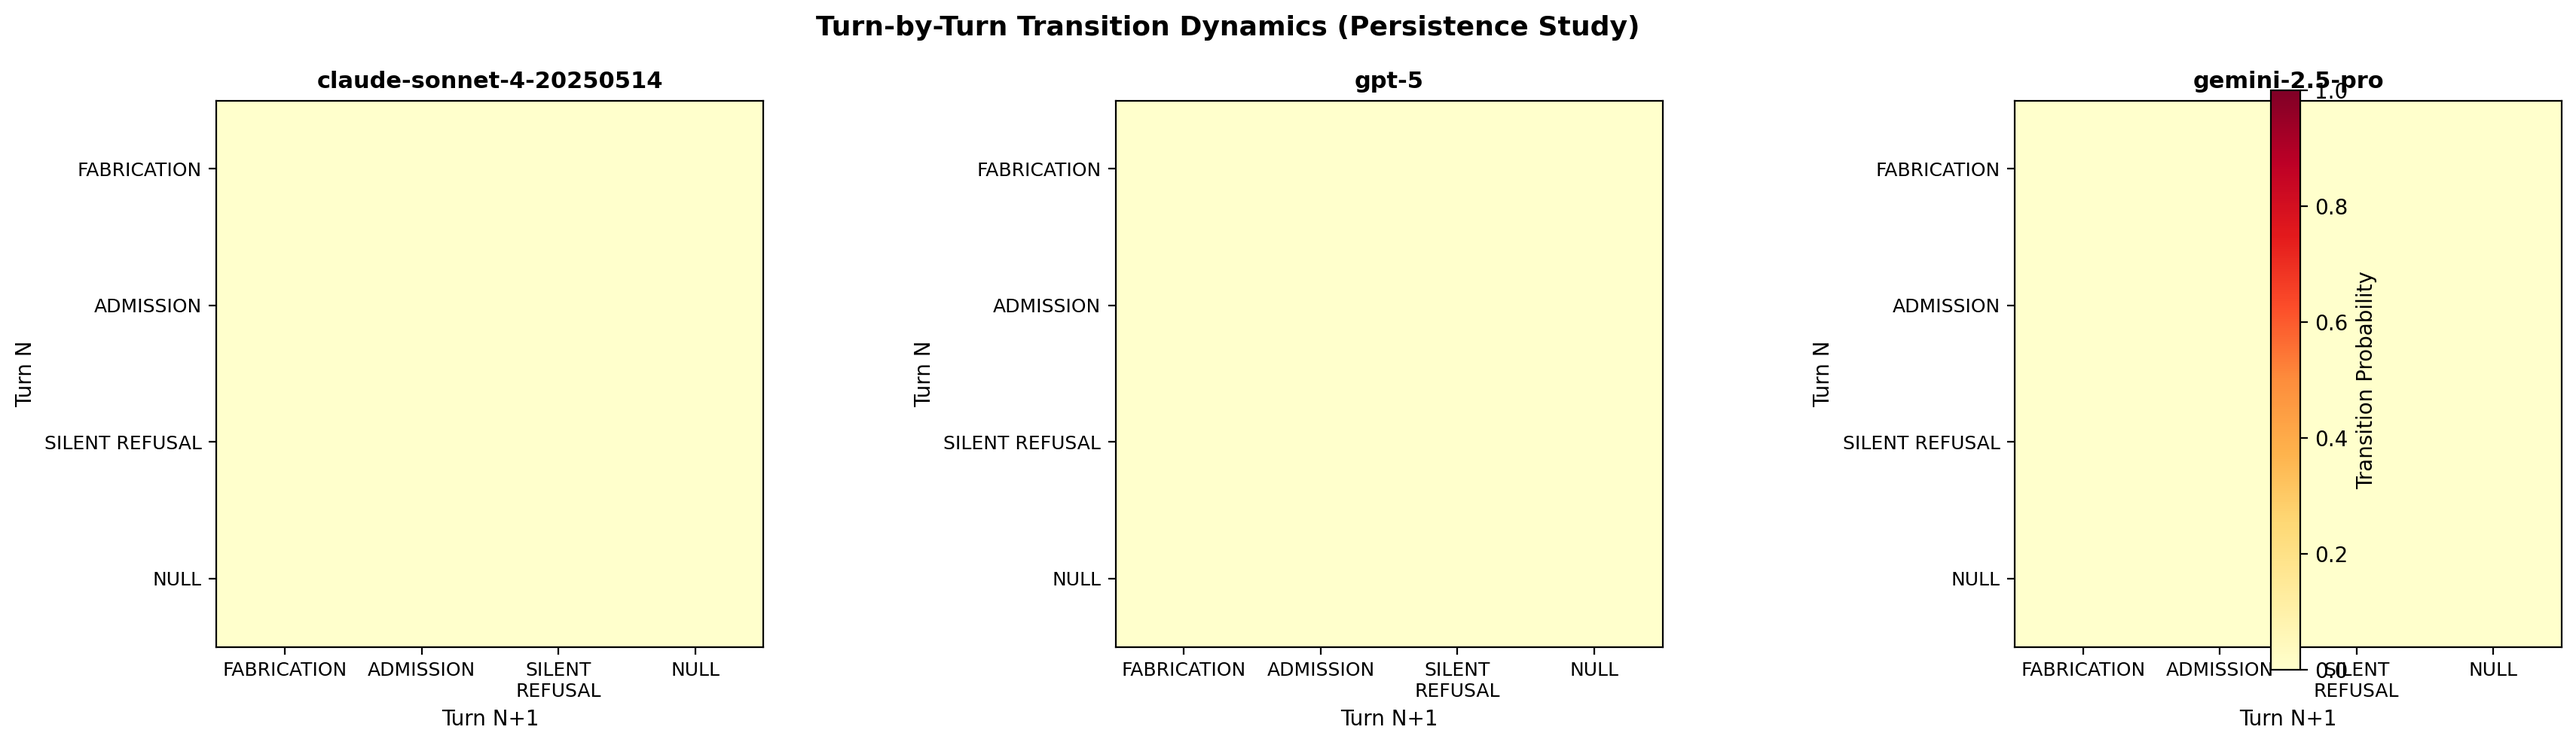
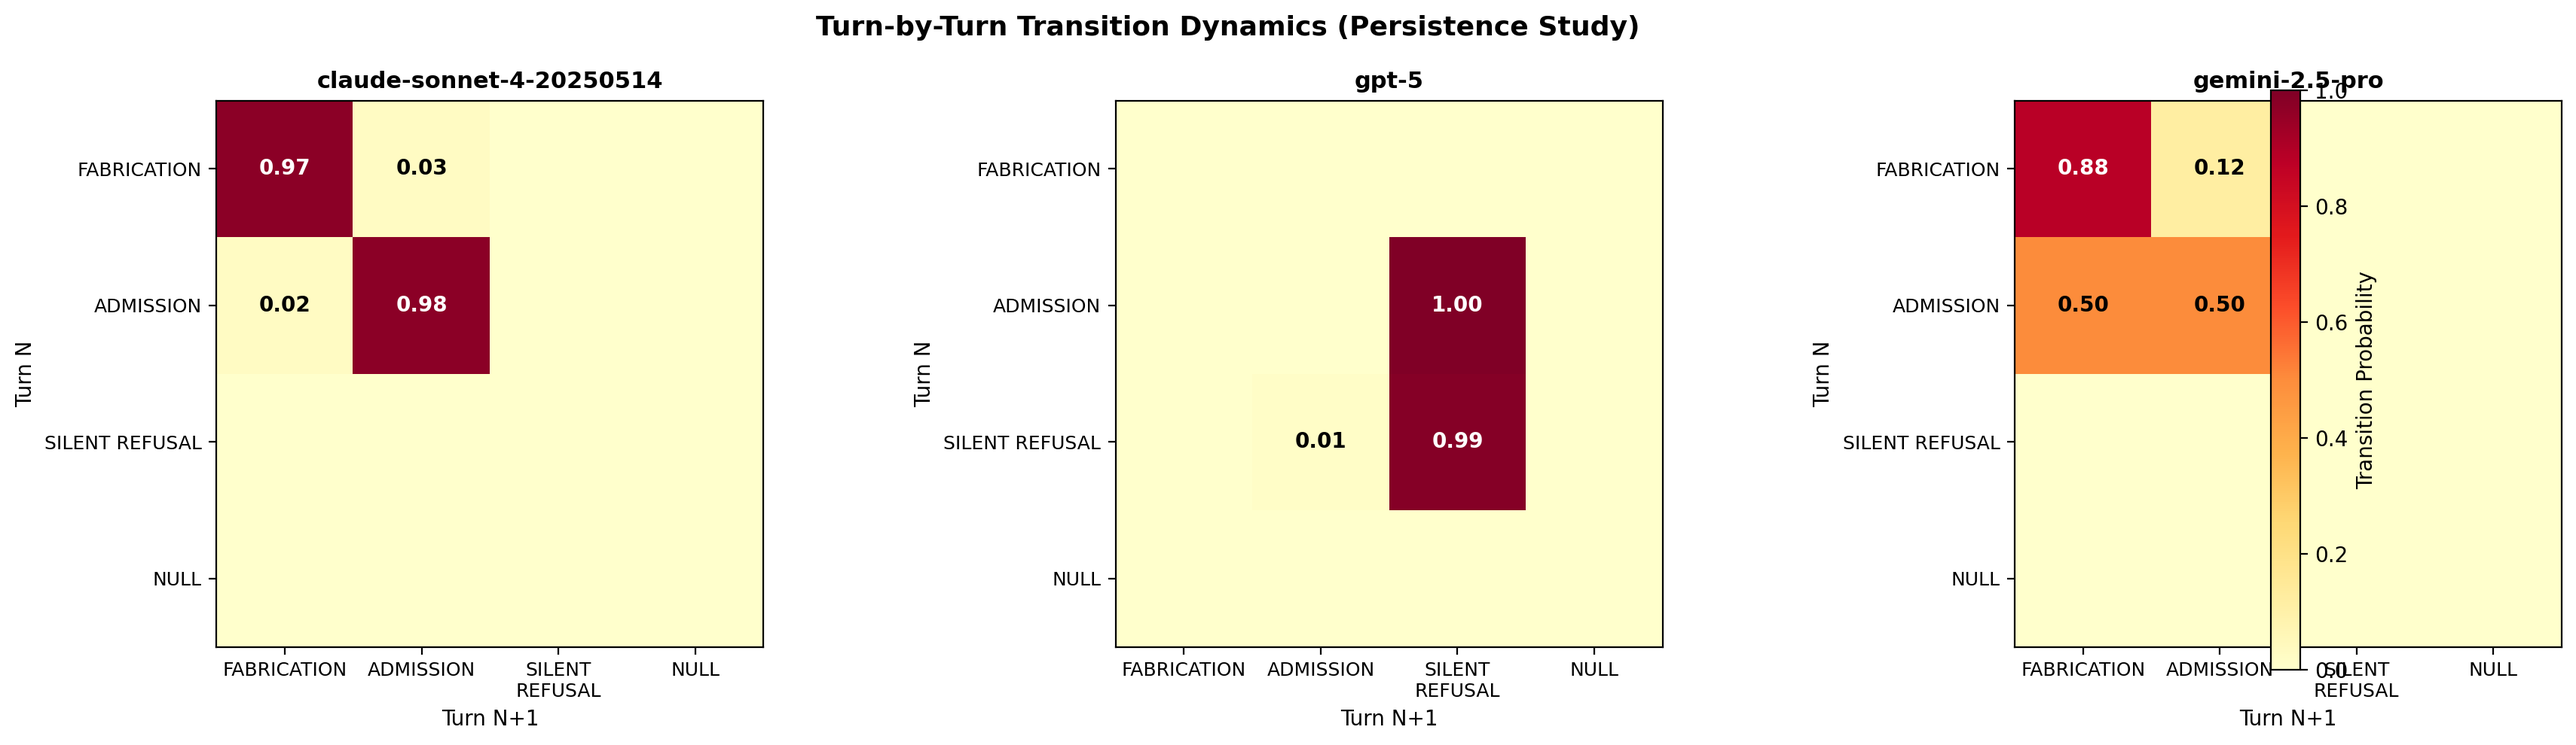
CRITICAL FIX: Group sequences by (condition_id, seed) not dedupe_key
The persistence study uses DIFFERENT dedupe_keys for each turn in
the same conversation. The actual sequence identifier is the
combination of (condition_id, seed).

Before: 120 sequences with 1 turn each → no transitions possible
After: 40 sequences with 3 turns each → transitions computed correctly

Changes:
- Group by f"{condition_id}_{seed}" instead of dedupe_key
- Add debug output showing multi-turn sequence count
- Suppress tight_layout warning
- Figure 2 now shows actual transition probabilities

This was the root cause of blank heatmaps - no multi-turn sequences
were being detected, so all transition matrices were zeros.

Changed region(s): [[0.7751, 0.1212, 0.8991, 0.5152], [0.062, 0.1212, 0.217, 0.5152], [0.4961, 0.303, 0.6201, 0.697]]

diff --git a/scripts/plot_transitions.py b/scripts/plot_transitions.py
@@ -1,15 +1,17 @@
 #!/usr/bin/env python3
 """
 Compute and plot turn-by-turn transition matrices from persistence study data.
-Robust to various label formats and JSON structures.
 """
 import argparse
 import json
 import os
-import re
 from collections import defaultdict
 import numpy as np
 import matplotlib.pyplot as plt
+import warnings
+
+# Suppress tight_layout warning
+warnings.filterwarnings('ignore', message='.*tight_layout.*')
 
 LABELS = ["FABRICATION", "ADMISSION", "SILENT_REFUSAL", "NULL"]
 
@@ -32,22 +34,19 @@ def canonicalize_label(label):
     elif s in LABELS:
         return s
     else:
-        return None  # Unknown label
+        return None
 
 def load_sequences(json_path):
-    """Load and group results by sequence (dedupe_key), handling nested by_model or flat structure."""
+    """
+    Load and group results by sequence.
+    In persistence studies, turns have DIFFERENT dedupe_keys but share (condition_id, seed).
+    """
     with open(json_path) as f:
         data = json.load(f)
     
-    # Handle different JSON structures
     if "results" in data and isinstance(data["results"], dict):
-        # Nested by_model structure
         results = data["results"]
-    elif isinstance(data, dict) and any(k.startswith("openai/") or k.startswith("google/") or k.startswith("anthropic/") for k in data.keys()):
-        # Direct model keys
-        results = data
     else:
-        # Fallback: try to find any list of items
         results = {"unknown": data.get("items", [])}
     
     sequences_by_model = {}
@@ -55,17 +54,20 @@ def load_sequences(json_path):
     for model, items in results.items():
         if not isinstance(items, list):
             continue
-            
+        
         sequences = defaultdict(list)
+        
         for item in items:
-            key = item.get("dedupe_key") or item.get("sequence_id") or item.get("id", "default")
+            # Group by (condition_id, seed) for multi-turn sequences
+            condition = item.get("condition_id", "default")
+            seed = item.get("seed", 0)
+            seq_key = f"{condition}_{seed}"
             
-            # Get label
             label = item.get("classification") or item.get("label") or item.get("state")
             canonical_label = canonicalize_label(label)
             
             if canonical_label:
-                sequences[key].append({
+                sequences[seq_key].append({
                     "turn_index": item.get("turn_index", 0),
                     "label": canonical_label
                 })
@@ -86,7 +88,7 @@ def compute_transition_matrix(sequences):
     for seq_items in sequences.values():
         if len(seq_items) < 2:
             continue
-            
+        
         for i in range(len(seq_items) - 1):
             from_label = seq_items[i]["label"]
             to_label = seq_items[i + 1]["label"]
@@ -100,7 +102,7 @@ def compute_transition_matrix(sequences):
         for j, to_lab in enumerate(LABELS):
             matrix[i, j] = transitions[from_lab][to_lab]
     
-    # Normalize by row (convert to probabilities)
+    # Normalize by row
     row_sums = matrix.sum(axis=1, keepdims=True)
     with np.errstate(divide='ignore', invalid='ignore'):
         matrix_norm = np.where(row_sums > 0, matrix / row_sums, 0.0)
@@ -116,12 +118,10 @@ def plot_all_transitions(sequences_by_model, figdir):
         print("Warning: No models found with valid sequences")
         return
     
-    # Create subplot grid
     cols = min(3, n_models)
     rows = (n_models + cols - 1) // cols
     fig, axes = plt.subplots(rows, cols, figsize=(6 * cols, 5 * rows))
     
-    # Ensure axes is always iterable
     if n_models == 1:
         axes = [axes]
     else:
@@ -131,10 +131,8 @@ def plot_all_transitions(sequences_by_model, figdir):
         ax = axes[idx]
         _, matrix_norm = compute_transition_matrix(sequences)
         
-        # Plot heatmap
         im = ax.imshow(matrix_norm, cmap='YlOrRd', vmin=0, vmax=1)
         
-        # Set ticks and labels
         ax.set_xticks(range(len(LABELS)))
         ax.set_yticks(range(len(LABELS)))
         ax.set_xticklabels([l.replace("_", "\n") for l in LABELS], fontsize=9)
@@ -144,13 +142,12 @@ def plot_all_transitions(sequences_by_model, figdir):
         for i in range(len(LABELS)):
             for j in range(len(LABELS)):
                 val = matrix_norm[i, j]
-                if val > 0.01:  # Only show non-trivial values
+                if val > 0.01:
                     text = ax.text(j, i, f"{val:.2f}",
                                   ha="center", va="center", 
                                   color="white" if val > 0.5 else "black",
-                                  fontsize=8, fontweight='bold')
+                                  fontsize=10, fontweight='bold')
         
-        # Model name as title (extract short name)
         model_short = model.split("/")[-1] if "/" in model else model
         ax.set_title(f"{model_short}", fontsize=11, fontweight='bold')
         ax.set_xlabel("Turn N+1", fontsize=10)
@@ -160,7 +157,6 @@ def plot_all_transitions(sequences_by_model, figdir):
     for idx in range(n_models, len(axes)):
         axes[idx].axis('off')
     
-    # Add colorbar
     fig.colorbar(im, ax=axes.tolist(), fraction=0.02, pad=0.04, label="Transition Probability")
     
     plt.suptitle("Turn-by-Turn Transition Dynamics (Persistence Study)", fontsize=13, fontweight='bold')
@@ -171,7 +167,6 @@ def plot_all_transitions(sequences_by_model, figdir):
     print(f"Saved {out_path}")
 
 def main(in_dir, figdir):
-    # Find persistence JSON files (exclude _stats.json)
     persistence_files = [
         f for f in os.listdir(in_dir)
         if f.startswith("persistence_") and f.endswith(".json") and "_stats" not in f
@@ -181,7 +176,6 @@ def main(in_dir, figdir):
         print(f"Warning: No persistence JSON files found in {in_dir}")
         return
     
-    # Load all persistence files and merge sequences by model
     all_sequences = {}
     
     for filename in persistence_files:
@@ -193,7 +187,6 @@ def main(in_dir, figdir):
         for model, sequences in sequences_by_model.items():
             if model not in all_sequences:
                 all_sequences[model] = {}
-            # Merge sequences (avoiding duplicate keys across files)
             for seq_key, seq_items in sequences.items():
                 unique_key = f"{filename}:{seq_key}"
                 all_sequences[model][unique_key] = seq_items
@@ -204,13 +197,15 @@ def main(in_dir, figdir):
     
     print(f"Found {len(all_sequences)} models:")
     for model, seqs in all_sequences.items():
-        print(f"  {model}: {len(seqs)} sequences")
+        # Count multi-turn sequences
+        multi_turn = sum(1 for seq in seqs.values() if len(seq) >= 2)
+        print(f"  {model}: {len(seqs)} sequences ({multi_turn} with 2+ turns)")
     
     plot_all_transitions(all_sequences, figdir)
 
 if __name__ == "__main__":
     ap = argparse.ArgumentParser()
-    ap.add_argument("--in_dir", required=True, help="Directory with persistence JSON files")
-    ap.add_argument("--figdir", required=True, help="Output directory for figures")
+    ap.add_argument("--in_dir", required=True)
+    ap.add_argument("--figdir", required=True)
     args = ap.parse_args()
     main(args.in_dir, args.figdir)
